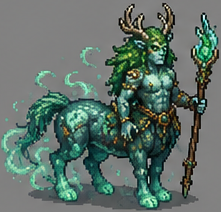
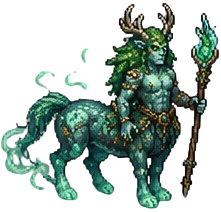
Correção e vinculação dos sprites

diff --git a/js/data.js b/js/data.js
@@ -360,7 +360,7 @@ const LEADERS = [
     { id: 'L_BARBARIAN', name: 'Rei Bárbaro', loreFaction: 'PRIMORDIAL', emoji: '🤴', hp: 80, maxHp: 80, mp: 4, maxMp: 4, atk: 12, limit: 3, range: 1, tags: ['PRIMAL', 'ICE'], fav: ['SNOW'], desc: 'Fúria Imortal: Quanto mais HP perder, mais forte ele fica.', sprite: 'img/lideres/rei_barbaro.png' },
     { id: 'L_TREX', name: 'T-Rex', loreFaction: 'PRIMORDIAL', emoji: '🦖', hp: 150, maxHp: 150, mp: 3, maxMp: 2, atk: 25, range: 1, limit: 3, tags: ['PRIMAL', 'ROCK', 'STALKER'], fav: ['DIRT'], desc: 'Kaiju. Bate em todos à frente. A cada passo, esmaga florestas e vilas, tornando-as planícies.' },
     { id: 'L_ICE_QUEEN', name: 'Rainha do Gelo', loreFaction: 'ORDEM', emoji: '👸🏼', hp: 75, maxHp: 75, mp: 3, maxMp: 3, atk: 12, limit: 3, range: 2, tags: ['ICE'], fav: ['SNOW'], filter: 'hue-rotate(180deg)', abilities: ['frost_armor', 'freeze'], desc: 'Magia glacial. Inimigos que a atacam corpo-a-corpo sofrem Congelamento (Chilled) instantâneo.', sprite: 'img/lideres/rainha_gelo.png' },
-    { id: 'L_HARPY', name: 'Matriarca Harpia', loreFaction: 'SILVESTRE', emoji: '🦅', hp: 65, maxHp: 65, mp: 5, maxMp: 5, atk: 14, limit: 3, range: 1, tags: ['WING', 'STALKER'], fav: ['MOUNTAIN'], filter: 'saturate(150%)', abilities: ['flying', 'dodge'], desc: 'Senhora dos ventos. Ignora custos de terreno pesado (sempre move por 1 MP) e possui esquiva natural alta.' },
+    { id: 'L_HARPY', name: 'Matriarca Harpia', loreFaction: 'SILVESTRE', emoji: '🦅', hp: 65, maxHp: 65, mp: 5, maxMp: 5, atk: 14, limit: 3, range: 1, tags: ['WING', 'STALKER'], fav: ['MOUNTAIN'], filter: 'saturate(150%)', abilities: ['flying', 'dodge'], desc: 'Senhora dos ventos. Ignora custos de terreno pesado (sempre move por 1 MP) e possui esquiva natural alta.' , sprite: 'img/lideres/harpia.png' },
     { id: 'shaman', name: 'Xamã da Tempestade', loreFaction: 'TEMPESTADE', emoji: '🧙♂️', desc: 'Mestre dos raios. Seus feitiços ricocheteiam e causam caos nas fileiras inimigas.', limit: 3, hp: 75, mp: 4, atk: 12, range: 2, limit: 6, tags: ['ELECTRIC', 'MYSTIC'], fav: ['MOUNTAIN'], filter: 'hue-rotate(45deg) saturate(200%)', knownSpells: ['sl_furia_tempestade'], sprite: 'img/lideres/xama_tempestade.png' },
     {
         id: 'ld_dragao_galatico', name: 'Dragão Galático', loreFaction: 'FORASTEIROS', emoji: '🌌',